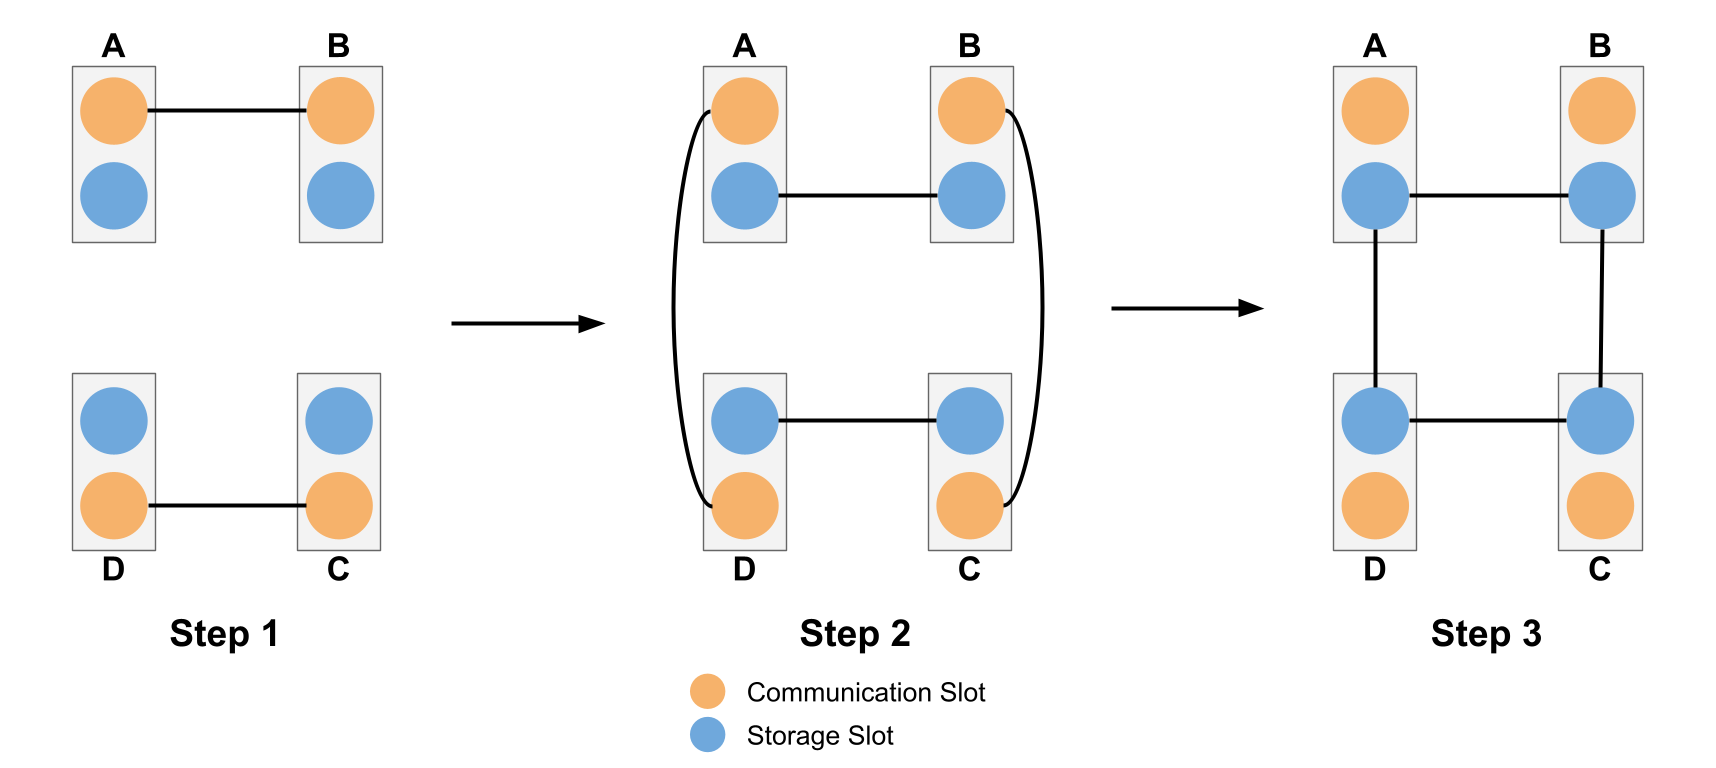
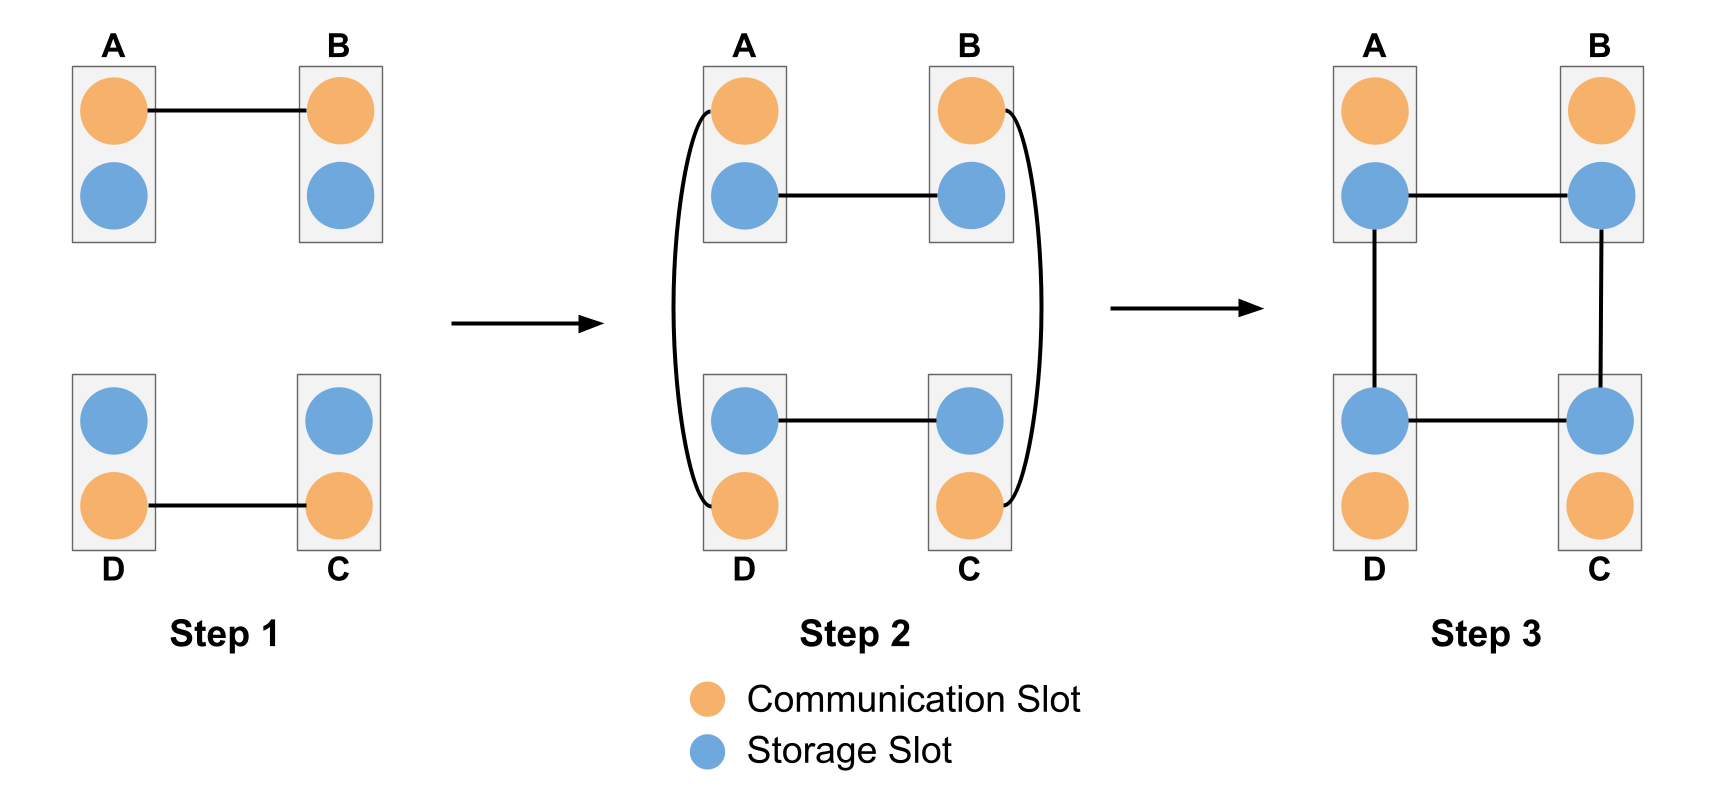
Update cluster-state workflow figure (#566)

diff --git a/docs/src/howto/cluster_state_walkthrough.md b/docs/src/howto/cluster_state_walkthrough.md
@@ -8,15 +8,33 @@ arranged in a square. Each node has a communication qubit, used to establish
 pairwise entanglement with neighbors, and a storage qubit, where that
 entanglement is moved and fused into the final multipartite resource state.
 
-![Cluster-state overview workflow](../assets/paper_figures/overview_ex.png)
+![Three-step cluster-state workflow across nodes A-D, using orange communication slots and blue storage slots](../assets/paper_figures/overview_ex.png)
+
+The diagram reads from left to right and shows one valid schedule for the four
+edges of the square:
+
+1. **Step 1:** [`EntanglerProt`](@ref) works on the A-B and C-D edges through
+   the orange communication slots. These edges do not share a node, so the two
+   entanglers can run in parallel. After both finish, [`Fusion`](@ref)
+   transfers these graph-state edges to the blue storage slots.
+2. **Step 2:** The horizontal edges are now stored in the blue slots. The
+   orange slots can be reused to entangle A-D and B-C in parallel.
+3. **Step 3:** `Fusion` consumes the second round of communication-slot Bell
+   pairs and adds those edges to the stored state. The four blue storage slots
+   now hold the square cluster state.
+
+The two parallel rounds can occur in the opposite order. The important rule is
+that edges in one round do not share a node, so they do not compete for the
+same communication slot.
 
 The point of this walkthrough is to show how a full-stack simulation is
 structured:
 
 - independent link-level entanglers can run in parallel when they do not
   compete for the same communication qubits
-- once Bell pairs exist, circuits move or fuse those resources into the storage
-  layer
+- after all entanglers in a round finish, the `Fusion` circuit transfers those
+  edges to the storage layer and frees the communication slots for the next
+  round
 - protocol logic, waiting, and concurrency live in the discrete-event layer
   rather than being hand-managed in user code
 - the state preparation and fusion steps can still be written symbolically, so
